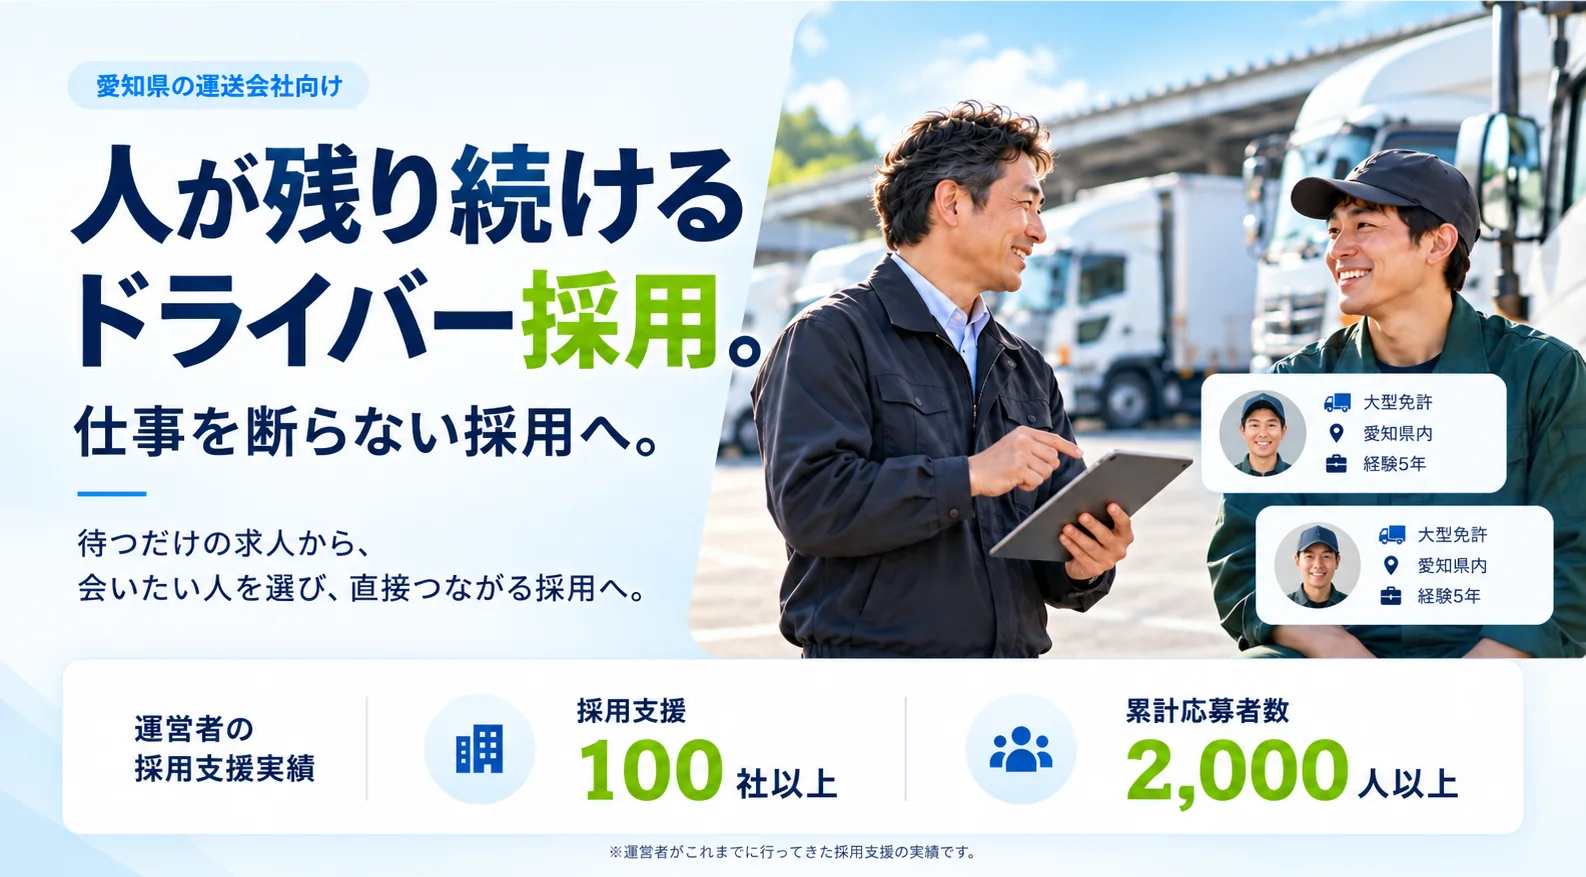
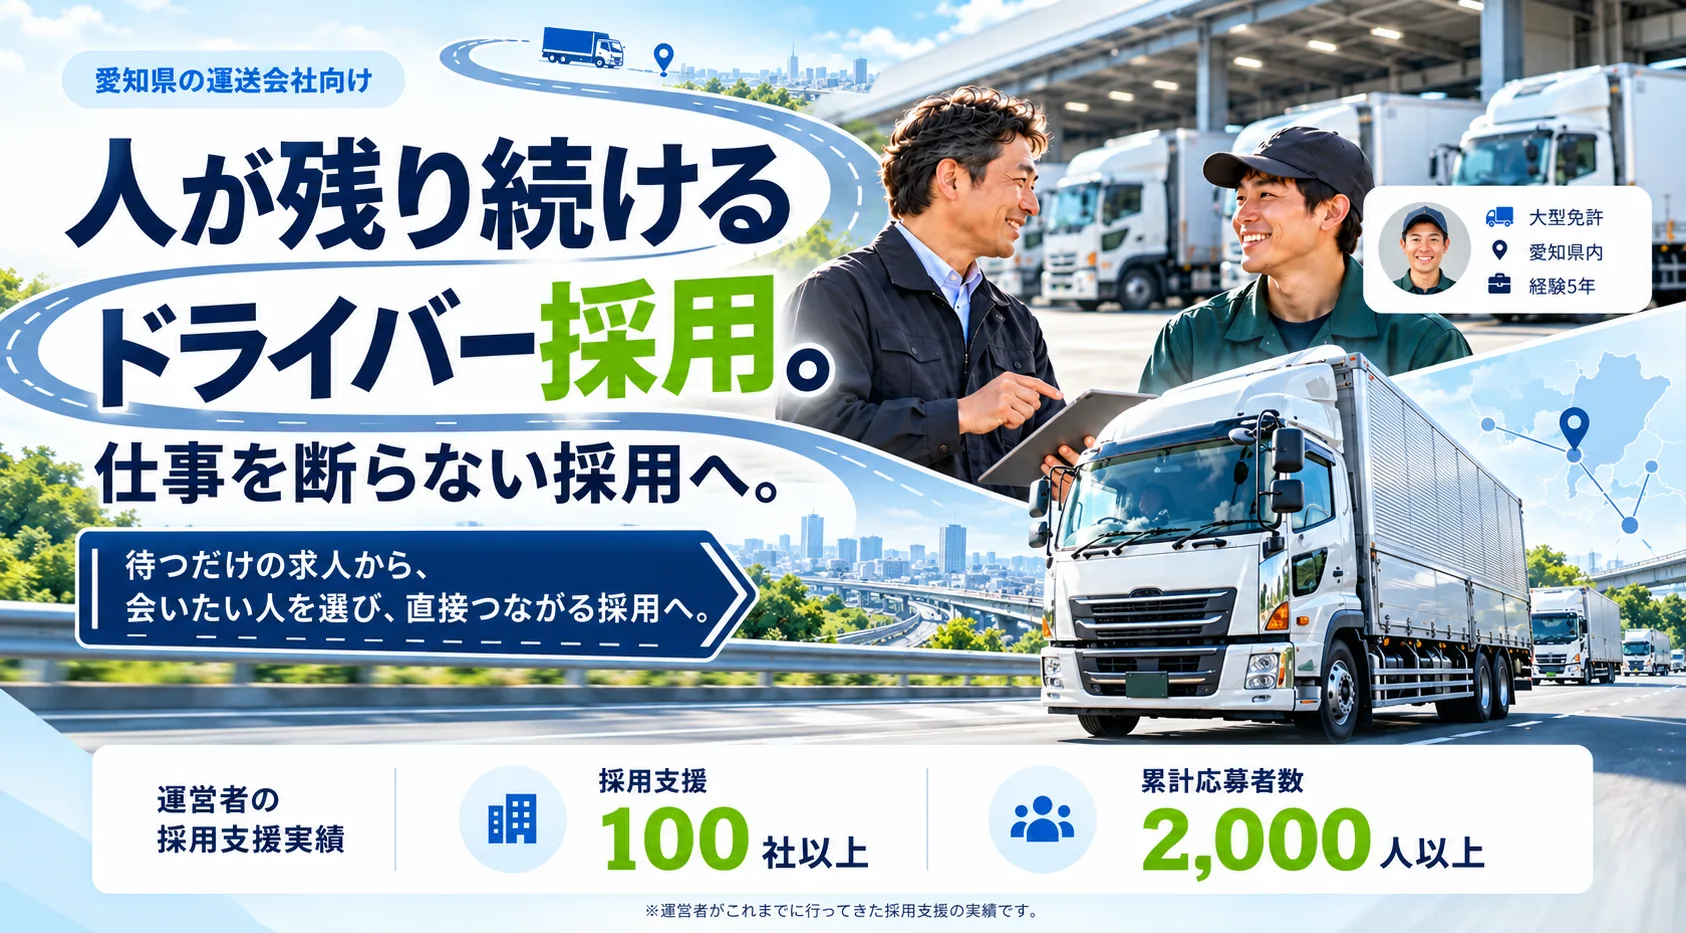
ドラテク企業向けLP（scout）：PCのFVを新画像に、LP全体をFVの世界観（空・道・地図ピン・街並み・緑の強調）に

diff --git a/app/driver/scout/scout-fv-theme.css b/app/driver/scout/scout-fv-theme.css
@@ -1,0 +1,208 @@
+/* ─────────────────────────────────────────────────────────────────────────────
+   ファーストビュー（fv-pc.webp）の世界観を、LP全体にそろえる仕上げ。
+     ・空の水色グラデーションと雲、空にのびる青い道とトラック、地図ピン、街並みのシルエット
+     ・見出しは濃紺、強調（ds-heading-accent）は FV の「採用」と同じ緑
+     ・小見出しは FV の「愛知県の運送会社向け」と同じ水色のピル
+     ・カードは白・淡い青の枠・やわらかい影
+   文字の大きさ・ボタンの形・文言・並び順は変えない（scout-saiyo.css の指定のまま）。
+   装飾の画像は public/images/driver/scout/deco/ の SVG。すべて飾り（中身を持たない）。
+   ───────────────────────────────────────────────────────────────────────────── */
+
+.ds-lp.ds-home {
+  --fv-navy: #0b2a5b;
+  --fv-blue: #1659e0;
+  --fv-green: #3c9e2e;
+  --fv-sky: linear-gradient(180deg, #e6f3ff 0%, #f4f9ff 55%, #ffffff 100%);
+  --fv-line: #d3e4fa;
+  --fv-shadow: 0 12px 32px rgba(22, 89, 224, 0.10);
+}
+
+/* ── ファーストビュー ── */
+.ds-lp.ds-home .ds-hero__img { max-width: 1686px; }
+.ds-lp.ds-home .ds-hero { background: linear-gradient(180deg, #eaf5ff, #f6fbff); }
+.ds-lp.ds-home .ds-hero__below {
+  position: relative;
+  overflow: hidden;
+  background: linear-gradient(180deg, #eaf5ff 0%, #f6fbff 100%);
+}
+.ds-lp.ds-home .ds-hero__offer {
+  position: relative;
+  border: 1px solid var(--fv-line);
+  box-shadow: var(--fv-shadow);
+}
+
+/* ── 明るいセクション：空と雲・道・街並み ── */
+.ds-lp.ds-home :is(.ds-intro, .ds-problems2, .ds-reasons, .ds-visible2, .ds-delegate, .ds-retention, .ds-flow2, .ds-compare, .ds-pricing2, .ds-results, .dt-faq) {
+  position: relative;
+  isolation: isolate;
+  overflow: hidden;
+}
+.ds-lp.ds-home :is(.ds-intro, .ds-problems2, .ds-reasons, .ds-visible2, .ds-delegate, .ds-retention, .ds-flow2, .ds-compare, .ds-pricing2, .ds-results, .dt-faq) > * {
+  position: relative;
+  z-index: 1;
+}
+
+/* 空の地色（交互に、空のグラデーションと白） */
+.ds-lp.ds-home :is(.ds-intro, .ds-reasons, .ds-delegate, .ds-flow2, .ds-pricing2, .dt-faq) {
+  background: var(--fv-sky);
+}
+.ds-lp.ds-home :is(.ds-problems2, .ds-visible2, .ds-retention, .ds-compare, .ds-results) {
+  background: #fff;
+}
+
+/* 雲（空の地色のセクションの右上と左） */
+.ds-lp.ds-home :is(.ds-intro, .ds-reasons, .ds-delegate, .ds-flow2, .ds-pricing2, .dt-faq)::before {
+  content: "";
+  position: absolute;
+  z-index: 0;
+  inset: 0;
+  pointer-events: none;
+  background:
+    url("/images/driver/scout/deco/cloud.svg") right -40px top 24px / 260px auto no-repeat,
+    url("/images/driver/scout/deco/cloud.svg") left -70px top 160px / 200px auto no-repeat;
+  opacity: 0.95;
+}
+
+/* 空にのびる道とトラック（白い地色のセクションの上に、うすく） */
+.ds-lp.ds-home :is(.ds-problems2, .ds-visible2, .ds-retention, .ds-compare, .ds-results)::before {
+  content: "";
+  position: absolute;
+  z-index: 0;
+  top: 0;
+  left: 50%;
+  width: min(1400px, 180%);
+  height: 220px;
+  transform: translateX(-50%);
+  pointer-events: none;
+  background: url("/images/driver/scout/deco/road.svg") center top / 100% 100% no-repeat;
+  opacity: 0.16;
+}
+
+/* 街並み（セクションの下辺） */
+.ds-lp.ds-home :is(.ds-intro, .ds-delegate, .ds-pricing2)::after {
+  content: "";
+  position: absolute;
+  z-index: 0;
+  left: 0;
+  right: 0;
+  bottom: 0;
+  height: 110px;
+  pointer-events: none;
+  background: url("/images/driver/scout/deco/skyline.svg") bottom center / 1440px 110px repeat-x;
+  opacity: 0.75;
+}
+.ds-lp.ds-home :is(.ds-intro, .ds-delegate, .ds-pricing2) { padding-bottom: calc(var(--ds-section-gap, 64px) + 64px); }
+
+/* 地図とピン（PCの余白にだけ。スマホは文字にかかるので出さない） */
+@media (min-width: 1024px) {
+  .ds-lp.ds-home :is(.ds-reasons, .ds-flow2, .ds-results)::after {
+    content: "";
+    position: absolute;
+    z-index: 0;
+    top: 56px;
+    right: max(16px, calc(50% - 700px));
+    width: 260px;
+    height: 190px;
+    pointer-events: none;
+    background: url("/images/driver/scout/deco/map.svg") center / contain no-repeat;
+    opacity: 0.85;
+  }
+  .ds-lp.ds-home :is(.ds-visible2, .ds-compare)::after {
+    content: "";
+    position: absolute;
+    z-index: 0;
+    top: 64px;
+    left: max(16px, calc(50% - 700px));
+    width: 220px;
+    height: 160px;
+    pointer-events: none;
+    background: url("/images/driver/scout/deco/map.svg") center / contain no-repeat;
+    opacity: 0.6;
+  }
+}
+
+/* ── 見出し ── */
+.ds-lp.ds-home .ds-intro .dt-head__title,
+.ds-lp.ds-home :is(.ds-problems2, .ds-reasons, .ds-visible2, .ds-delegate, .ds-retention, .ds-flow2, .ds-compare, .ds-pricing2, .ds-results, .dt-faq) .dt-head__title {
+  color: var(--fv-navy);
+}
+.ds-lp.ds-home :is(.ds-intro, .ds-problems2, .ds-reasons, .ds-visible2, .ds-delegate, .ds-retention, .ds-flow2, .ds-compare, .ds-pricing2, .ds-results, .dt-faq) .ds-heading-accent {
+  color: var(--fv-green);
+}
+
+/* 小見出し → FV の「愛知県の運送会社向け」と同じ水色のピル */
+.ds-lp.ds-home :is(.ds-intro, .ds-problems2, .ds-reasons, .ds-visible2, .ds-delegate, .ds-retention, .ds-flow2, .ds-compare, .ds-pricing2, .ds-results) .dt-head__eyebrow {
+  display: inline-block;
+  padding: 6px 16px;
+  border: 1px solid #cfe2fb;
+  border-radius: 999px;
+  background: #e3f0ff;
+  color: var(--fv-blue);
+  font-weight: 800;
+}
+.ds-lp.ds-home .dt-head { text-align: center; }
+
+/* 見出しの下に、道とトラックの線 */
+.ds-lp.ds-home :is(.ds-intro, .ds-problems2, .ds-reasons, .ds-visible2, .ds-delegate, .ds-retention, .ds-flow2, .ds-compare, .ds-pricing2, .ds-results, .dt-faq) .dt-head__title::after {
+  content: "";
+  display: block;
+  width: 126px;
+  height: 20px;
+  margin: 18px auto 0;
+  background: url("/images/driver/scout/deco/road-line.svg") center / contain no-repeat;
+}
+
+/* ── カード：白・淡い青の枠・やわらかい影 ── */
+.ds-lp.ds-home :is(.ds-steps3 li, .ds-pgrid li, .ds-split__box, .ds-relay li, .ds-flow3__main, .ds-free, .ds-scard, .ds-ptable, .ds-tbd, .ds-rtable__row, .ds-operator, .ds-faq__item, .ds-icongrid li) {
+  border-color: var(--fv-line);
+  box-shadow: var(--fv-shadow);
+}
+
+/* ── 最後のCTA：FVと同じ空・道・街並み ── */
+.ds-lp.ds-home .ds-final {
+  position: relative;
+  isolation: isolate;
+  overflow: hidden;
+  background: linear-gradient(160deg, #0a1f4e 0%, #1453c5 70%, #2f7ae8 100%);
+}
+/* 街並み（濃い地色の上なので、うすく） */
+.ds-lp.ds-home .ds-final::after {
+  content: "";
+  position: absolute;
+  z-index: -1;
+  left: 0;
+  right: 0;
+  bottom: 0;
+  height: 110px;
+  pointer-events: none;
+  background: url("/images/driver/scout/deco/skyline.svg") bottom center / 1440px 110px repeat-x;
+  opacity: 0.18;
+}
+/* 濃い地色の上の「元ドライバーが運営する…」は、白寄りの色にして読めるようにする */
+.ds-lp.ds-home .ds-final .ds-cta__operator { color: #d6e7ff; }
+.ds-lp.ds-home .ds-final .ds-cta__operator::before,
+.ds-lp.ds-home .ds-final .ds-cta__operator::after { background: rgba(214, 231, 255, 0.6); }
+.ds-lp.ds-home .ds-final::before {
+  content: "";
+  position: absolute;
+  z-index: -1;
+  top: 0;
+  left: 50%;
+  width: min(1400px, 180%);
+  height: 240px;
+  transform: translateX(-50%);
+  pointer-events: none;
+  background: url("/images/driver/scout/deco/road.svg") center top / 100% 100% no-repeat;
+  opacity: 0.22;
+}
+.ds-lp.ds-home .ds-final { padding-bottom: calc(var(--ds-section-gap, 64px) + 72px); }
+
+@media (prefers-reduced-motion: no-preference) {
+  .ds-lp.ds-home :is(.ds-intro, .ds-reasons, .ds-delegate, .ds-flow2, .ds-pricing2, .dt-faq)::before {
+    animation: fv-cloud-drift 18s ease-in-out infinite alternate;
+  }
+}
+@keyframes fv-cloud-drift {
+  from { background-position: right -40px top 24px, left -70px top 160px; }
+  to { background-position: right 0 top 30px, left -30px top 150px; }
+}

diff --git a/app/driver/scout/page.tsx b/app/driver/scout/page.tsx
@@ -5,6 +5,8 @@ import ScoutShell from "@/components/driver-scout/Shell";
 // 演出の CSS は共通スタイル（Shell が読み込む）のあとに読む
 import "./scout-motion.css";
 import "./scout-saiyo.css";
+// FV（空・道・街並み）の世界観をLP全体にそろえる仕上げ。scout-saiyo.css のあとに読む
+import "./scout-fv-theme.css";
 import { SERVICE_NAME } from "@/components/driver-scout/content";
 import { buildJsonLd, DESCRIPTION, OG_IMAGE, SITE_URL, TITLE } from "@/components/driver-scout/seo";
 import { getWaitingDriverCount } from "@/lib/driverCandidates/count";

diff --git a/components/driver-scout/Sections.tsx b/components/driver-scout/Sections.tsx
@@ -143,8 +143,8 @@ export function Hero() {
         <img
           className="ds-hero__img"
           src="/images/driver/scout/fv-pc.webp"
-          width={1586}
-          height={877}
+          width={1686}
+          height={933}
           alt={`運営者の実績：${ACHIEVEMENTS.map((a) => `${a.label}${a.value.toLocaleString("ja-JP")}${a.unit}`).join("、")}（${ACHIEVEMENTS_NOTE}）`}
           fetchPriority="high"
           loading="eager"
